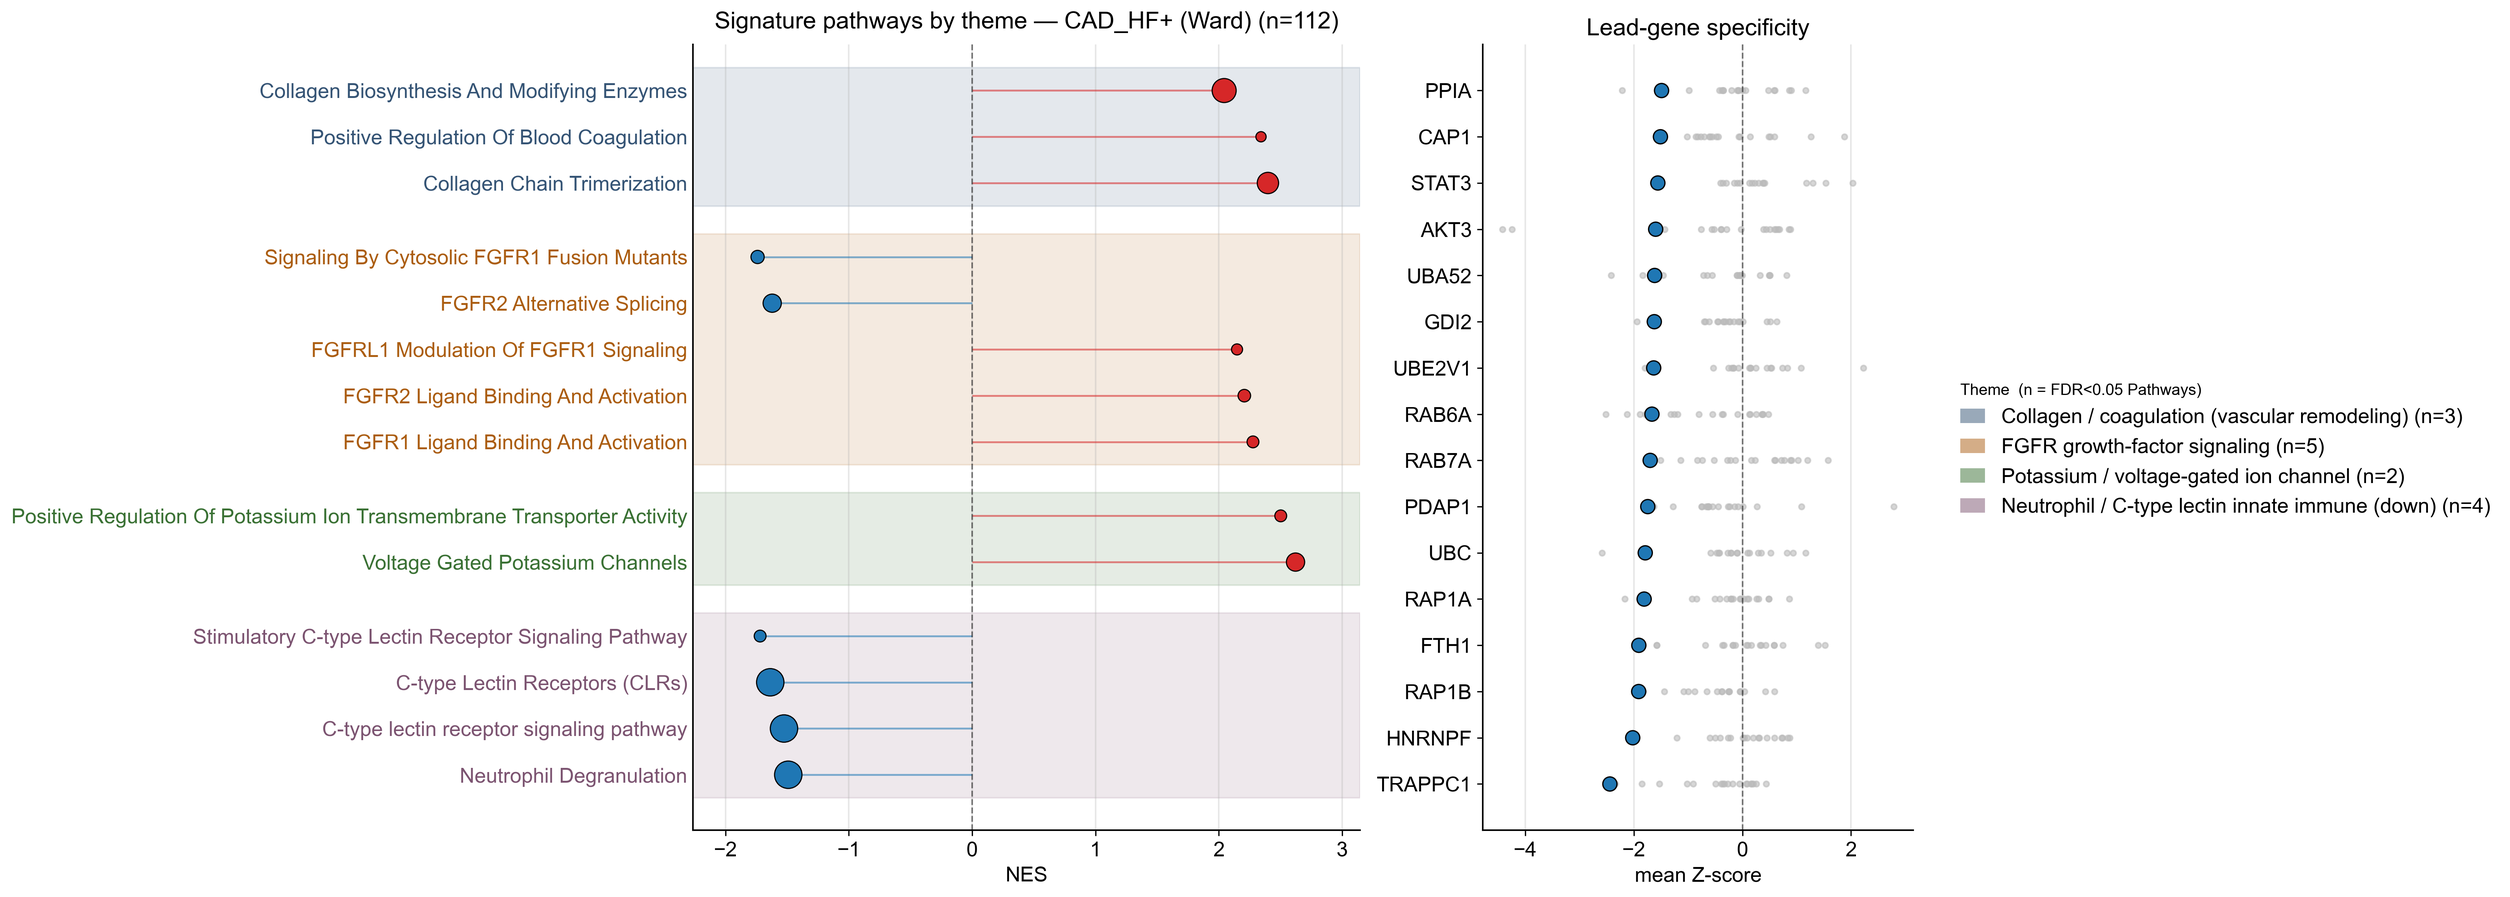
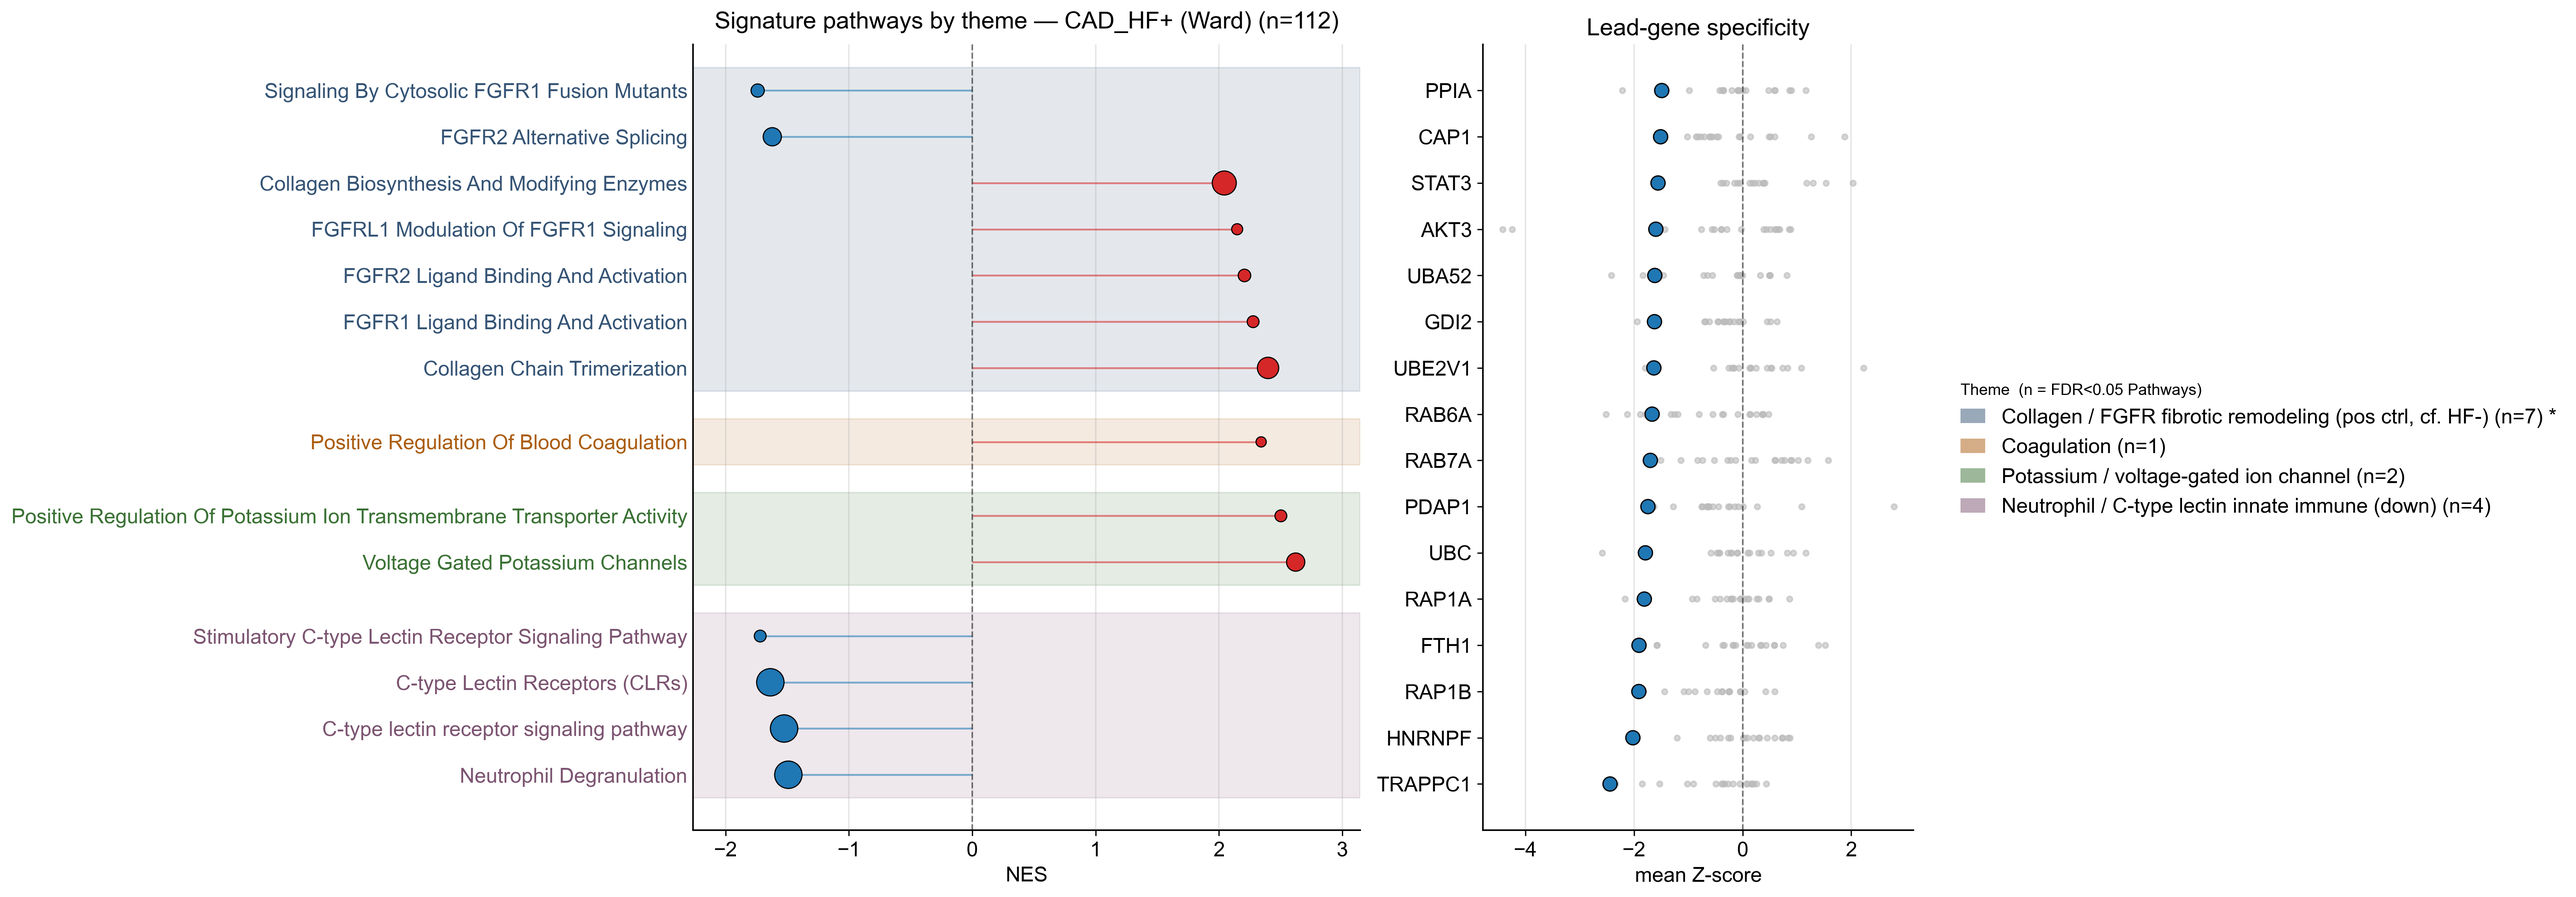
update : signatures

diff --git a/Modeling/pipeline/cohort_stats.py b/Modeling/pipeline/cohort_stats.py
@@ -1,0 +1,37 @@
+import numpy as np
+import pandas as pd
+from scipy import stats
+from statsmodels.stats.multitest import multipletests
+
+
+def test_vs_hc(Z, gene_names):
+    """One-sample t-test per gene (H0: mean_Z == 0) with BH-adjusted padj.
+
+    Z : (n_samples, n_genes) cohort Z-score matrix.
+    Returns DataFrame [gene, stat, pval, padj], sorted by pval.
+    """
+    stat, pval = stats.ttest_1samp(Z, 0.0, axis=0)
+    padj = multipletests(pval, method='fdr_bh')[1]
+    return pd.DataFrame({'gene': gene_names, 'stat': stat, 'pval': pval, 'padj': padj}) \
+        .sort_values('pval').reset_index(drop=True)
+
+
+def test_cohort_vs_cohort(Z_a, Z_b, gene_names):
+    """Two-sample Welch's t-test per gene between two disease cohorts, BH-adjusted.
+
+    Z_a, Z_b : (n_samples, n_genes) Z-score matrices for cohort A and cohort B.
+    Returns DataFrame [gene, stat, pval, padj], sorted by pval.
+    """
+    stat, pval = stats.ttest_ind(Z_a, Z_b, axis=0, equal_var=False)
+    padj = multipletests(pval, method='fdr_bh')[1]
+    return pd.DataFrame({'gene': gene_names, 'stat': stat, 'pval': pval, 'padj': padj}) \
+        .sort_values('pval').reset_index(drop=True)
+
+
+def sig_gene_set(Z, gene_names, padj_thr=0.05, ref=None):
+    """Set of gene_names with padj < padj_thr from test_vs_hc or test_cohort_vs_cohort.
+
+    ref : optional second Z matrix -> cohort_vs_cohort; otherwise vs_hc.
+    """
+    df = test_vs_hc(Z, gene_names) if ref is None else test_cohort_vs_cohort(Z, ref, gene_names)
+    return set(df.loc[df['padj'] < padj_thr, 'gene'])

diff --git a/CLAUDE.md b/CLAUDE.md
@@ -23,35 +23,31 @@ This file provides guidance to Claude Code (claude.ai/code) when working with co
   apply_style()
   ```
 
-### 프로젝트 디렉토리 구조 (경로 = 간단설명 단일 소스)
-유지 규칙: 모든 경로/구조 정보는 아래 트리에 **경로 : 한 줄 설명** 형식으로만 기록한다. 별도 상세 섹션을 만들어 중복시키지 말 것. config.py나 디렉토리가 바뀌면 본 트리만 갱신.
-작업 환경 : conda env "scRNA" 에서 작업
-./config.py : 경로·파라미터 단일 소스. 모든 코드가 재선언 없이 import. ROOT/DATA_DIR/PIPELINE_DIR · MODELING_DIR/ENGINE_DIR/CV_RESULTS_DIR/CV_FIG_DIR/Z_SCORES_DIR/GSEA_DIR/BENCHMARK_DIR(DESEQ2_RESULTS_DIR/DESEQ2_GSEA_DIR/DESEQ2_COV_*) · DISPERSION_TREND_PATH · H5AD_PATH · Z_DISEASE/Z_HC/Z_RARE_DISEASE/Z_RARE_HC/Z_RARE_GENE_NAMES 등 Z 경로 · RARE_GLM · EXCLUDED_GENES(downstream 분석에서만 제외할 유전자 set, 기본 7개 intercept-stage 예외 유전자) · PATHS{merged_raw/biases/qc} · BIAS_COLUMNS · MODELING_PARAMS{분석키:ood_percentile=95/min_samples=5/z_flag=3.0/stratify_col/n_splits=5/gsea_*/emap_sim_thr=0.50 + 엔진키:nz_a_max=7/trend_min_nz=30/alpha_floor·cap/ridge_lambda_sigma/outlier_z/max_outlier_iter/max_remove_frac/beta_explode_thr/gaic_k/rare_overdisp_thr/rare_z_cap} · PARAMS(EDA용)
-./viz_style.py : apply_style() 공통 matplotlib 테마 (모든 시각화 필수)
-./CLAUDE.md · ./README.md : 공용 문서
-./_legacy/ : 폐기 파일·임시파일. 참고·수정·읽기 금지
-./Data/ : 분석 핵심 데이터 (권한 없이 수정 금지)
-./OpenAccess_nfcore/ : 주 분석 데이터(adata) 원본·전처리본 (권한 없이 수정 금지). config.PATHS.merged_qc = 주 h5ad
-./RPM_nfcore/ : Validation 실험실 데이터 (추가 예정)
-./Saved_Pipeline/ : config.PIPELINE_DIR (LogisticGP·Z matrix, 생성 예정)
-./EDA/ : 코호트 QC·batch/bias 교란분석. cwd=EDA 가정, 루트 config/viz_style를 Path.cwd().parent로 sys.path 등록해 import
-./EDA/analysis_cfrna_cohorts.ipynb : QC→PCA→RDA 교란분석 (helper+plot 호출)
-./EDA/analysis_helper.py : QC·bias 정량화 + RDA 분산분해 엔진 (자체적으로 root를 sys.path 등록)
-./EDA/analysis_plot.py : analysis_helper 전용 시각화
-./EDA/VariousNormalizationMethods_OpenAccess.R : 정규화 레이어 생성 (R, PROJECT_ROOT 절대경로)
-./EDA/Analysis_Results/ : 위 노트북 출력 (노트북에서 ./Analysis_Results/ 상대경로)
-./Modeling/ : cfRNA Normative Modeling 본체
-./Modeling/*.py : model_engine(NZ 게이팅 demotion chain 엔진 본체, 아래 핵심 아키텍처 참조) · run_model_engine(→engine_state/, demotion 통계+funnel figure, --limit smoke test) · cv_model_engine(엔진 5-fold CV → CV_Results/, cv_stats.csv·cv_zscores.pkl·cv_ppc.pkl) · dispersion_trend(Phase 0 covariate-free MoM dispersion trend) · sample_filter(MahalanobisFilter OOD) · gene_selectors(proportion/effect_size/svd + effect_size_specific[방안1 질병간대조+방안2 ubiquity damping] + l1_logistic[OVR L1 판별]) · build_disease_reference(Open Targets 질병별 참조 유전자 JSON 재생성). 경로/BIAS_COLUMNS/임계값 전부 config import
-./Modeling/pipeline/ : 분석·시각화 모듈 패키지. data_prep(공통 전처리:load_adata/study-split/OOD·MIN_SAMPLES/Z 로드/EXCLUDED_GENES 제외)·scoring·selection·enrichment·signatures(THEMES+heuristic/emap 군집)·cv_diagnostics(엔진 CV 진단: calibration·PPC 시각화+요약 CSV, _model_diagnostics.ipynb의 로직 본체)·benchmark(DESeq2 vs Normative 유전자 단위 비교)·gsea_compare(GSEA term-level 비교: with_rare↔no_filter↔DESeq2 겹침 통계+diff+Open Targets DB 교차검증. load_sets/compare_all/validate_rare_novel/deseq2_coverage/db_hit_rates) + plots(시각화 전용). __init__이 root를 sys.path 등록. 노트북은 thin runner(import+호출)로 동일 산출물 재현
-./Modeling/engine_state/ : run_model_engine.py 산출 (학습된 engine) = config.ENGINE_DIR. genes.pkl(GeneRecord dict) · scaler.pkl · config.pkl · rare_glm.pkl(pooled rare GLM 계수) · training_summary.csv(route/stage/nz/fail_reason) · dispersion_trend.json(=config.DISPERSION_TREND_PATH) · route_demotion_summary.png
-./Modeling/Z_scores/ : normative model Z-score 산출물 전용 (Z_disease/sample/gene/hc/hc_names.npy = engine-only canonical · Z_rare_disease/hc/gene_names.npy = rare 공변량 GLM 별도 아티팩트 · disease_scores_flagged.parquet = 전 분기 통합 long표) = config.Z_SCORES_DIR
-./Modeling/CV_Results/ : 엔진 CV·진단 출력 = config.CV_RESULTS_DIR. cv_stats.csv(per-gene held-out calibration) · cv_zscores.pkl · cv_ppc.pkl(per-point y/mu/sigma) · cv_summary_by_stage.csv · ppc_summary_stats.csv · discrimination_summary.csv/discrimination_by_disease.csv(selection.discrimination_control 산출: random floor/batch-null/per-disease AUC) · Figures/(cv_diagnostics.py + plots.plot_discrimination_control 산출). Z 행렬은 여기 아님(→Z_scores/)
-./Modeling/GSEA/ : GSEA 산출 (조건별 하위폴더 = _gene_enrichment.ipynb CONDITIONS의 label, 각 gsea_result_*.csv · Clusters/ · Figures/) + 해석 리포트. 조건 = 포함할 엔진 stage/route 집합(scoring.stage_masked_z로 그 stage 외 유전자 열 0). no_filter=nbi+nb_fixed+intercept(engine-only count route, rare 미포함, 기존 이름 유지=gsea_compare/downstream 호환) · with_rare=nbi+pool(full-NBI+rare covariate GLM만) · nbi_only=nbi만. ubiquity/artifact 필터는 폐기. no_filter/GSEA_Master_Report.md · with_rare/GSEA_Master_Report.md(DB+20질병 문헌검증) · Analysis_Provenance.md(rare/DESeq2 비교에 쓴 DB 엔드포인트·쿼리·질병ID·PubMed 기록)
-./Modeling/Benchmark/ : Normative Modeling vs DESeq2 정성/정량 비교 전용 = config.BENCHMARK_DIR. deseq2_results/(deseq2_*.csv·gsea_result_*.csv per phenotype, PyDESeq2 within-study 공변량미보정=config.DESEQ2_RESULTS_DIR) · deseq2_gsea/(공변량미보정 GSEA=config.DESEQ2_GSEA_DIR) · deseq2_covariate_results/(공변량보정 DESeq2 결과=config.DESEQ2_COV_RESULTS_DIR, run_deseq2_covariate.py 산출) · deseq2_covariate_gsea/(공변량보정 GSEA=config.DESEQ2_COV_GSEA_DIR) · disease_reference/(질병별 Open Targets association 상위 300 유전자 JSON = DB 교차검증 참조) · gsea_compare/(gsea_compare.py 산출: overlap_stats.csv · rare_novel_validated/summary.csv · deseq2_coverage.csv · deseq2_cov_vs_nocov_overlap.csv · deseq2_cov_db_hits.csv · db_hit_rates*.csv · {comparison}__{which}__{pheno}.csv diff 리스트) · rescued_genes_*.csv(분석1 산출) · DESeq2_vs_Normative_Report.md(term 커버리지/방향불일치 비교) · Figures/
-./Modeling/노트북 (모두 thin runner) : disease_scoring(→Z_scores/ 재생성) → gene_selection → gene_enrichment → gsea_heuristic_signatures(수동 theme,PPT용) · model_diagnostics(cv_diagnostics.run_all 호출: 엔진 CV calibration·PPC 그림+CSV) · gsea_rare_deseq2_comparison(rare 포함/미포함/DESeq2 3자 GSEA term 비교, gsea_compare 호출)
-./Modeling/dispersion_trend.py : Phase 0. 공변량 무시하고 raw count에서 gene별 NB2 MoM dispersion(sigma=(var-mean)/mean^2) 계산 → nz>=trend_min_nz(30)만 신뢰 → log(mu) 구간별 nonzero-가중 중앙값 → lowess(log-log) 평활. load_trend()가 alpha_of(mean)->dispersion 클로저 반환(alpha_floor~alpha_cap 클립). stage nb_fixed/intercept 분산 고정에 사용
-./Modeling/model_engine.py : `NormativeModelEngine`(엔진 본체). NZ 게이팅 + demotion chain (아래 핵심 아키텍처 참조)
-./Modeling/run_model_engine.py : 엔진 학습 스크립트 → config.ENGINE_DIR(engine_state/). demotion-chain 통계+funnel figure 출력. `--limit N`(smoke test) · `--nz-a-max`
+### 프로젝트 디렉토리 구조
+경로·파라미터는 전부 `config.py`가 단일 소스이며 코드에서 재선언 없이 import한다. 아래는 각 디렉토리/모듈의 **역할**만 기록(경로 문자열·변수명은 반복하지 않음). 구조가 바뀌면 이 트리만 갱신.
+작업 환경 : conda env "scRNA"
+
+- `_legacy/` : 폐기 파일. 참고·수정·읽기 금지
+- `Data/`, `OpenAccess_nfcore/` : 핵심 데이터 원본·전처리본 (권한 없이 수정 금지)
+- `RPM_nfcore/` : Validation 실험실 데이터 (추가 예정)
+- `Saved_Pipeline/` : LogisticGP·Z matrix (생성 예정)
+- `viz_style.py` : `apply_style()` 공통 matplotlib 테마 (모든 시각화 필수)
+- `EDA/` : 코호트 QC·batch/bias 교란분석 (cwd=EDA 가정). `analysis_cfrna_cohorts.ipynb`(QC→PCA→RDA) · `analysis_helper.py`(QC·bias 정량화+RDA 분산분해 엔진) · `analysis_plot.py`(전용 시각화) · `VariousNormalizationMethods_OpenAccess.R`(정규화 레이어 생성) · `Analysis_Results/`(출력)
+- `Modeling/` : cfRNA Normative Modeling 본체 (아래 핵심 아키텍처 참조)
+  - `dispersion_trend.py` : Phase 0, 공변량 무시 raw count NB2 MoM dispersion → lowess 평활 트렌드. `load_trend()`가 `alpha_of(mean)` 클로저 반환
+  - `model_engine.py` : `NormativeModelEngine` 본체 (NZ 게이팅 + demotion chain)
+  - `run_model_engine.py` : 엔진 학습 → `engine_state/`. demotion 통계+funnel figure. `--limit N`(smoke test) · `--nz-a-max`
+  - `cv_model_engine.py` : 엔진 5-fold CV → `CV_Results/`
+  - `sample_filter.py` : MahalanobisFilter OOD 필터
+  - `gene_selectors.py` : proportion/effect_size/svd + effect_size_specific(방안1 질병간대조+방안2 ubiquity damping) + l1_logistic(OVR L1 판별)
+  - `build_disease_reference.py` : Open Targets 질병별 참조 유전자 JSON 재생성
+  - `pipeline/` : 실제 분석·시각화 로직 패키지 (노트북은 thin runner). `data_prep`(공통 전처리: load_adata/study-split/OOD·MIN_SAMPLES/Z 로드/EXCLUDED_GENES 제외) · `scoring` · `selection` · `enrichment` · `signatures`(THEMES+heuristic/emap 군집) · `cv_diagnostics`(엔진 CV calibration·PPC 시각화+요약 CSV) · `benchmark`(DESeq2 vs Normative 유전자 단위 비교) · `gsea_compare`(GSEA term-level 3자 비교: with_rare/no_filter/DESeq2 겹침·diff·Open Targets DB 교차검증) · `plots`
+  - `engine_state/` : 학습된 엔진 산출물. genes.pkl(GeneRecord dict) · scaler.pkl · config.pkl · rare_glm.pkl(pooled rare GLM 계수) · training_summary.csv(route/stage/nz/fail_reason) · dispersion_trend.json · route_demotion_summary.png
+  - `Z_scores/` : Z-score 산출물. Z_disease/hc*.npy = engine-only canonical(pool 컬럼 0 placeholder) · Z_rare_*.npy = rare 공변량 GLM 별도 아티팩트 · disease_scores_flagged.parquet = 전 route 통합 long표(z_flag=3.0 이진 플래그)
+  - `CV_Results/` : cv_stats.csv(per-gene held-out calibration) · cv_zscores.pkl · cv_ppc.pkl · cv_summary_by_stage.csv · discrimination_summary/by_disease.csv(random/batch-null/disease AUC) · Figures/
+  - `GSEA/` : 조건별 하위폴더(no_filter=nbi+nb_fixed+intercept, with_rare=nbi+pool, nbi_only=nbi만; scoring.stage_masked_z로 그 stage 외 유전자 열 0) 각 gsea_result_*.csv·Clusters/·Figures/ + Master_Report.md(해석 리포트) + Analysis_Provenance.md
+  - `Benchmark/` : DESeq2 vs Normative 비교. deseq2_results/gsea(공변량미보정) · deseq2_covariate_results/gsea(공변량보정) · disease_reference/(Open Targets 상위 300 유전자 JSON) · gsea_compare/(overlap_stats·rare_novel_validated·deseq2_coverage·db_hit_rates 등) · DESeq2_vs_Normative_Report.md · Figures/
+  - 노트북(모두 thin runner) : disease_scoring(→Z_scores/) → gene_selection → gene_enrichment → gsea_heuristic_signatures(PPT용) · model_diagnostics(cv_diagnostics.run_all) · gsea_rare_deseq2_comparison(gsea_compare 호출)
 
 ### pipeline/ 주요 진입점 (노트북에서 실제 호출되는 함수)
 - `data_prep.load_disease_filtered()` → `DiseaseData` dataclass (Z_dis · dis_pheno · dis_names · gene_names · gene_syms · adata · is_hc · X_raw) 반환. 분석 노트북의 공통 진입점.

diff --git a/Modeling/GSEA/Reference/comparative_signatures_refs.md b/Modeling/GSEA/Reference/comparative_signatures_refs.md
@@ -1,0 +1,33 @@
+# 대조군 비교 분석 (Comparative Signatures) — skill-retrieved references
+
+Retrieval: PubMed E-utilities (esearch) + Open Targets Platform GraphQL v4. Date 2026-07-07.
+Method: with_rare GSEA significant terms (FDR<0.05, housekeeping/neurodegeneration excluded) set-differenced between phenotype pairs; only terms unique to one side reported.
+
+## Pancreatic Cancer (Moore) vs Pancreatitis (Moore)
+
+- DDR2 AND pancreatic cancer: PubMed 12 hits. ECM organization/desmoplasia general (extracellular matrix AND pancreatic ductal adenocarcinoma AND desmoplasia): 189 hits. Established PDAC stromal biology.
+- acute pancreatitis AND vascular permeability: PubMed 219 hits. Established acute-phase edema mechanism (VEGFR2-mediated).
+- pancreatic acinar cell cAMP secretion pancreatitis: PubMed 157 hits. Established exocrine secretory signaling axis.
+- Immune-evasion term (Primary Immunodeficiency / ZAP-70 synapse, down in cancer only): lead genes LCK, PTPRC, BTK — canonical T-cell receptor proximal signaling; direction (down) consistent with tumor immune evasion literature (qualitative, not independently PMID-verified in this pass).
+
+## ICI-m (Raissadati) vs ICI-treated Cancer (Raissadati)
+
+- MYH7/MYH6 (Cardiac Muscle Contraction, NES +2.28, ICI-m only):
+  - Open Targets MYH7 x hypertrophic cardiomyopathy 0.892, cardiomyopathy 0.758.
+  - PMID 36385524 — "T cells specific for α-myosin drive immunotherapy-related myocarditis." (landmark mechanistic study; myosin-specific T cells directly implicated)
+  - PMID 39378095 — "Injury-induced myosin-specific tissue-resident memory T cells drive immune checkpoint inhibitor myocarditis." (2024 follow-up)
+- Immunoproteasome / antigen cross-presentation (Proteasome, ER-Phagosome, Cross-presentation Of Soluble Exogenous Antigens; NES +2.16 to +2.38, lead PSMB8 among others, ICI-m only):
+  - PubMed PSMB8 AND myocarditis: 5 hits.
+  - PubMed immunoproteasome AND myocarditis: 13 hits. Representative: PMID 38570171 — "Mapping the interplay of immunoproteasome and autophagy in different heart failure phenotypes." (2024)
+  - Mechanistic coherence (not independently confirmed as a single paper): immunoproteasome/IFN-gamma-driven antigen presentation is the plausible upstream route feeding myosin-specific T-cell priming reported above.
+- ICI-treated Cancer contrast: Allograft rejection / GVHD-like terms and large-scale mitotic/cell-cycle downregulation (45 terms) appear only in this heterogeneous mixed cohort with no single Open Targets disease reference (ot_disease=None per earlier packet) — interpreted as non-specific tumor-bulk signal, not a coherent mechanism.
+
+## CAD_HF+ (Ward) vs CAD_HF- (Ward)
+
+- COL6A3 (Collagen Chain Trimerization, NES +2.40, HF+ only): Open Targets coronary artery disorder 0.445, myocardial infarction 0.339. PubMed COL6A3 AND (cardiac/coronary/fibrosis): ~87 hits. Representative PMID 41174767 — "Spatial-reprogramming derived GPNMB+ macrophages interact with COL6A3+ fibroblasts to enhance vascular fibrosis." (Genome Med 2025)
+- FGF5 (FGFR1/FGFR2 ligand binding, NES +2.15/+2.21/+2.28, HF+ only): Open Targets coronary artery disorder 0.548, hypertensive disorder 0.584, heart failure 0.473.
+- AGT (G Protein-Coupled Receptor Signaling Coupled To Cyclic Nucleotide, NES +3.76, HF- only): Open Targets essential hypertension 0.627, hypertensive disorder 0.606, cardiovascular disorder 0.487 (queried live via Open Targets GraphQL, 2026-07-07).
+- P2RY12 (P2Y Receptors, NES +2.12, HF- only): Open Targets coronary artery disorder 0.602, acute coronary syndrome 0.613, myocardial infarction 0.620, Stroke 0.609 (queried live via Open Targets GraphQL, 2026-07-07). Established antiplatelet drug target (clopidogrel/ticagrelor).
+- PubMed AGT AND coronary artery disease: 63 hits. PubMed P2RY12 AND coronary artery disease: 151 hits.
+
+All scores/hit counts from direct API calls in this session; no memory-based citation.
